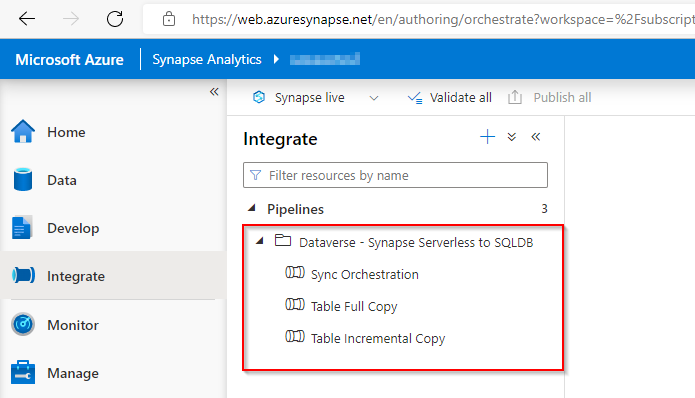
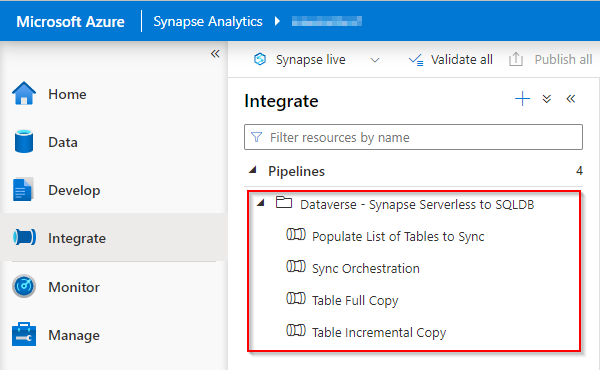
Added source table auto-discovery
Added source table auto-discovery, updated documentation.

diff --git a/README.md b/README.md
@@ -33,28 +33,51 @@ To avoid read/write contention issues while reading data from files that are bei
 ### Implementation
 1. Provision an Azure SQL Database to serve as the target of your Dataverse data. [See documentation](https://docs.microsoft.com/en-us/azure/azure-sql/database/single-database-create-quickstart?view=azuresql&tabs=azure-portal). Ensure that the "Allow Azure services and resources to access this server" setting is enabled. [See documentation](https://docs.microsoft.com/en-us/azure/azure-sql/database/firewall-configure?view=azuresql)
 
-2. Grant your Synapse Analytics Workspace access to your target Azure SQL Database by adding the managed identity of your Synapse Analytics Workspace to the db_owner role in the Azure SQL Database. [See additional documentation](https://docs.microsoft.com/en-us/azure/data-factory/connector-azure-sql-database?tabs=data-factory#managed-identity). You may use the following SQL statement: 
-```sql
+2. Download the [SQL Script that defines relevant database objects from this repository](SQL/CreateDatabaseObjects.sql) from this repository to your local computer.
+
+3. Create database objects in the target Azure SQL Database that will support configuration and logging of the data integration process by executing the T-SQL script downloaded in the previous step. The script will create.
+    * Schemas: orchestration and staging
+    * Tables: orchestration.ProcessingControl and orchestration.ProcessingLog
+    * Stored Procedure: orchestration.GetTablesToProcess
+
+4. Grant your Synapse Analytics Workspace access to your target Azure SQL Database by adding the managed identity of your Synapse Analytics Workspace to the db_owner role in the Azure SQL Database. [See additional documentation](https://docs.microsoft.com/en-us/azure/data-factory/connector-azure-sql-database?tabs=data-factory#managed-identity). You may use the following SQL statement: 
+```
 CREATE USER [YourSynapseAnalyticsWorkspaceName] FROM EXTERNAL PROVIDER
 GO
 ALTER ROLE [db_owner] ADD MEMBER [YourSynapseAnalyticsWorkspaceName]
 GO
 ```
-3. Download the [SQL Script that defines relevant database objects from this repository](SQL/CreateDatabaseObjects.sql) from this repository to your local computer.
+5. If necessary, grant the managed identity of your Synapse Analytics Workspace access to the storage account container containing your Dataverse data by adding it to the *Storage Blob Data Reader* role. [See additional documentation] (https://docs.microsoft.com/en-us/azure/synapse-analytics/security/how-to-grant-workspace-managed-identity-permissions). 
 
+6. Download the [Synapse Pipeline template (packaged as a .zip file)](Pipelines/Sync%20Orchestration.zip) from this repository to your local computer.
 
-4. Create database objects that support configuration and logging of the data integration process by executing the T-SQL script. The script will create.
-    * Schemas: orchestration and staging
-    * Tables: orchestration.ProcessingControl and orchestration.ProcessingLog
-    * Stored Procedure: orchestration.GetTablesToProcess
+7. Import the zip file with the downloaded Synapse Pipeline template to your Synapse Analytics Workspace, as illustrated below. 
+![Import pipelines from template](Images/ImportPipelineFromTemplate.png)
 
-5. Configure the data export process by adding a list of tables that need to be synchronized to the `orchestration.ProcessingControl table`. For each table configuration record, please specify:
-    * SourceSchema - name of database schema in the source database (e.g., dbo)
-    * SourceTable - name of source table (e.g., account_partitioned)
-    * TargetSchema - name of target schema (e.g., dbo) 
-    * TargetTable - name of target table (e.g., account)
-    * KeyColumnName - name of the column that can serve as a unique key for the table (e.g., Id), which is required to implement the upsert process for incremental loading of data to the destination tables. For tables that do not require incremental updates, set the value to NULL.
-    * IsIncremental - a binary flag indicating whether a table should be copied incrementally or in full.
+8. During the template import process, configure linked services for target Azure SQL DB and the source Serverless SQL Pool endpoint (as illustrated below). 
+![Import pipelines from template](Images/ConfigureLinkedServices.png)
+
+9. Once the import process completes, you will find four pipelines in the *Dataverse - Synapse Serverless to SQLDB* folder, as illustrated below:
+![Imported pipelines](Images/ImportedPipelines.png)
+
+10. By default, the solution is designed to perform automatic discovery of tables available in the source Serverless SQL database. Any table with the suffix of "_partitioned" or "Metadata" will be automatically added to the *orchestration.ProcessingControl* table. If you prefer to manually load the list of tables required for synchronization, please set the *AutoPopulateListOfTablesToSync* parameter in the *Sync Orchestration* pipeline to *false*. Then, review instructions for manually loading the ProcessingControl table in the *Next Steps and Additional Considerations* section below.
+
+11. Trigger the *Sync Orchestration* pipeline, as illustrated below.
+![Trigger orchestration pipeline now](Images/TriggerNow.png)
+
+12. Monitor pipeline execution, as illustrated below.
+![Trigger orchestration pipeline now](Images/MonitorPipelineRuns.png)
+
+12. Create a scheduled trigger to execute the  *Sync Orchestration* pipeline in an automated manner on a desired schedule. Note, since tables based on hourly snapshots of Dataverse data are the recommended data source for this solution, pipeline execution should be scheduled no more frequently than once per hour.
+
+## Next Steps and Additional Considerations
+* If you chose to disable the automatic source table discovery feature by setting the *AutoPopulateListOfTablesToSync* parameter in the *Sync Orchestration* pipeline to *false*, please manually configure the data export process. You may do so by adding a list of tables that need to be synchronized to the `orchestration.ProcessingControl` table. For each table configuration record, please specify:
+    * *SourceSchema* - name of database schema in the source database (e.g., dbo)
+    * *SourceTable* - name of source table (e.g., account_partitioned)
+    * *TargetSchema* - name of target schema (e.g., dbo) 
+    * *TargetTable* - name of target table (e.g., account)
+    * *KeyColumnName* - name of the column that can serve as a unique key for the table (e.g., Id), which is required to implement the upsert process for incremental loading of data to the destination tables. For tables that do not require incremental updates, set the value to NULL.
+    * *IsIncremental* - a binary flag indicating whether a table should be copied incrementally or in full.
 
     Following is a sample SQL statement that could be used to add records to the ProcessingControl table:
     ```sql
@@ -78,30 +101,14 @@ GO
     ('dbo', 'GlobalOptionsetMetadata', 'dbo', 'GlobalOptionsetMetadata', NULL, 0)
     ```
 
-5. Download the [Synapse Pipeline template (packaged as a .zip file)](Pipelines/Sync%20Orchestration.zip) from this repository to your local computer.
 
-6. Import the zip file with the downloaded Synapse Pipeline template to your Synapse Analytics Workspace, as illustrated below. 
-![Import pipelines from template](Images/ImportPipelineFromTemplate.png)
-
-7. During the template import process, configure linked services for target Azure SQL DB and the source Serverless SQL Pool endpoint (as illustrated below). Note: both linked services use the Azure SQL Database connector. 
-![Import pipelines from template](Images/ConfigureLinkedServices.png)
-
-8. Once the import process completes, you will find three pipelines in the *Dataverse - Synapse Serverless to SQLDB* folder, as illustrated below:
-![Imported pipelines](Images/ImportedPipelines.png)
-9. Trigger the *Sync Orchestration* pipeline, as illustrated below.
-![Trigger orchestration pipeline now](Images/TriggerNow.png)
-10. Monitor pipeline execution, as illustrated below.
-![Trigger orchestration pipeline now](Images/MonitorPipelineRuns.png)
-11. Create a scheduled trigger to execute the  *Sync Orchestration* pipeline in an automated manner on a desired schedule. Note, since tables based on hourly snapshots of Dataverse data are the recommended data source for this solution, pipeline execution should be scheduled no more frequently than once per hour.
-
-## Next Steps and Additional Considerations
-* The current solution will automatically create tables in the target SQL Database. However, these tables will be created without any primary keys, clustered indices or non-clustered indices. Be sure to add appropriate primary keys and indices to each of your destination tables. At a minimum, add a primary key on the key column (which is typically called "Id") in each incrementally synced table. These primary keys will improve the efficiency of the incremental sync process.
+* This solution will automatically create tables in the target SQL Database. However, these tables will be created without any primary keys, clustered indices or non-clustered indices. Be sure to add appropriate primary keys and indices to each of your destination tables. At a minimum, add a primary key on the key column (which is typically called "Id") in each incrementally synced table. These primary keys will improve the efficiency of the incremental sync process.
 
 * Consider creating views on top of tables in the target SQL Database to hide deleted records to simplify data access from client applications.
 
 * Review performance and utilization of your target Azure SQL Database and adjust scale appropriately.
 
-* You may add new tables to be synchronized by this solution at any time. Simply add the configuration details for the desired tables to the `orchestration.ProcessingControl` table. The solution will automatically create a table in the destination datablase and will perform a full load of the table during the next scheduled pipeline execution. Incremental synchornizations will continue in the future (if the table is configured for incremental sync). As discussed above, please manually create indexes and any auxiliary views after the table has been created.
+* If the *AutoPopulateListOfTablesToSync* parameter in the *Sync Orchestration* pipeline is set to *true*, any new tables added to your Synapse Link for Dataverse will be automatically added to the ProcessingControl list. Similarly, you may manually add new tables to be synchronized by this solution at any time. Simply add the configuration details for the desired tables to the `orchestration.ProcessingControl` table. The solution will automatically create a table in the destination datablase and will perform a full load of the table during the next scheduled pipeline execution. Incremental synchornizations will continue in the future (if the table is configured for incremental sync). As discussed above, please manually create indexes and any auxiliary views after the table has been created.
 
 * Schema evolution requires special consideration. While Synapse Link for Dataverse will automatically accommodate newly added columns (as documented [here](https://docs.microsoft.com/en-us/power-apps/maker/data-platform/export-data-lake-faq)), this solution is not designed to accommodate new columns. If a new column has been added to a Dataverse entity, you may handle it by:
     * Manually altering the definition of the table in the target SQL Database (recommended)
